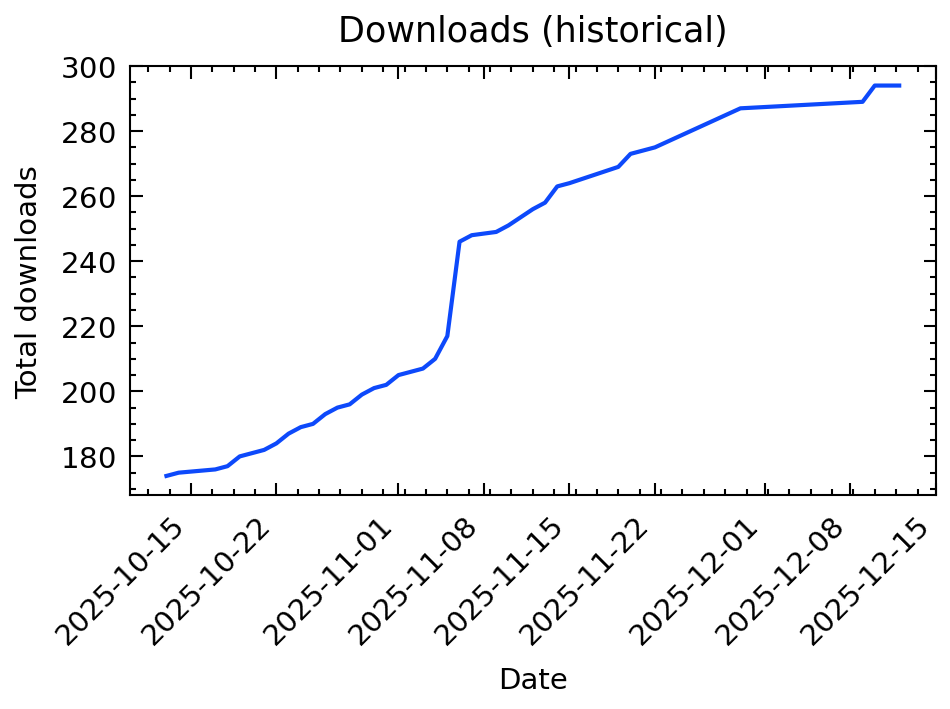
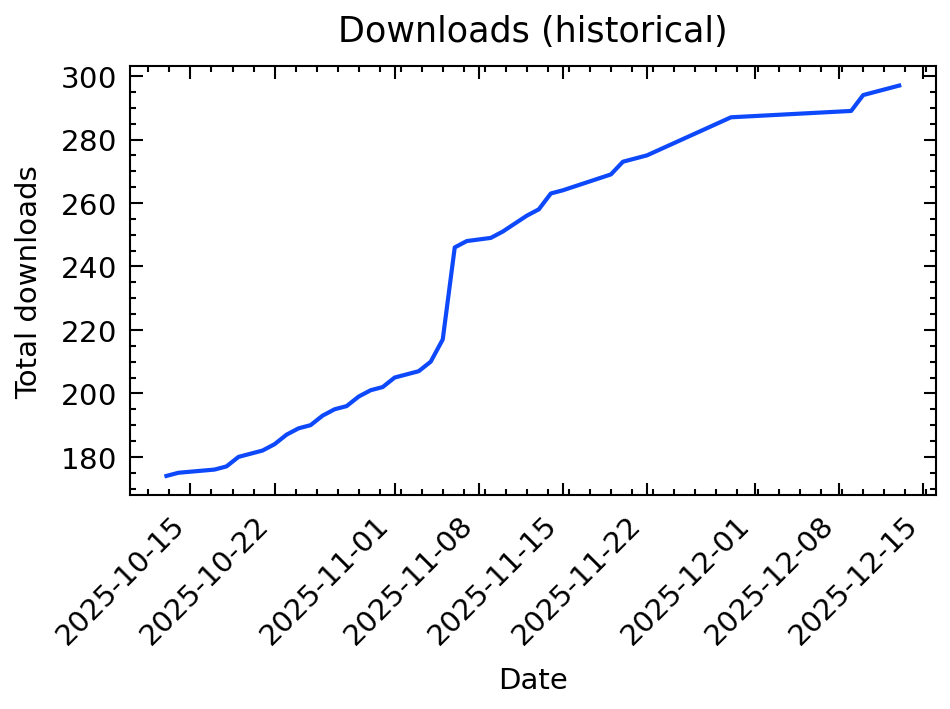
Updated Metrics data

diff --git a/README.md b/README.md
@@ -4,7 +4,7 @@
 SciWIn-Client helps users creating **Computational Workflows** in CWL. Detailed Information about SciWIn-Client can be found in the [GitHub Repository](https://github.com/fairagro/sciwin). The Metrics shown below have been calculated using the GitHub API. Presentation is done via a CWL Workflow and the scripts in this repository.
 
 ## Downloads by Version
-SciWIn-Client currently has about 294 overall downloads across all versions and operating systems. The lastest version v1.1.0 currently has 5 downloads.
+SciWIn-Client currently has about 297 overall downloads across all versions and operating systems. The lastest version v1.1.0 currently has 8 downloads.
 
 
 ![downloads by version](release.png)
@@ -12,7 +12,7 @@ SciWIn-Client currently has about 294 overall downloads across all versions and 
 
 | Version | Downloads |
 |---------|-----------|
-| v1.1.0 | 5|
+| v1.1.0 | 8|
 | v1.0.0 | 83|
 | v0.8.0 | 34|
 | v0.7.0 | 21|
@@ -28,7 +28,7 @@ SciWIn-Client currently has about 294 overall downloads across all versions and 
 
 
 ## Downloads by Operating System
-SciWIn-Client is used on all major operating systems. There are 161 downloads of the Linux executable, 65 downloads of the Windows executable and 68 downloads of the Mac OS executable.
+SciWIn-Client is used on all major operating systems. There are 161 downloads of the Linux executable, 65 downloads of the Windows executable and 71 downloads of the Mac OS executable.
 
 
 ![downloads by platform](platform.png)
@@ -38,13 +38,13 @@ SciWIn-Client is used on all major operating systems. There are 161 downloads of
 |---------|-----------|
 | MacOS (ARM) | 39|
 | Linux (ARM) | 35|
-| MacOS (x64) | 29|
+| MacOS (x64) | 32|
 | Windows (x64) | 65|
 | Linux (x64) | 126|
 
 
 ## Historical Download Chart
-The historical download chart can be viewed below. It is shown how the 294 overall downloads progressed over time by using the commited data of this repository.
+The historical download chart can be viewed below. It is shown how the 297 overall downloads progressed over time by using the commited data of this repository.
 
 
 ![downloads by date](history.png)
